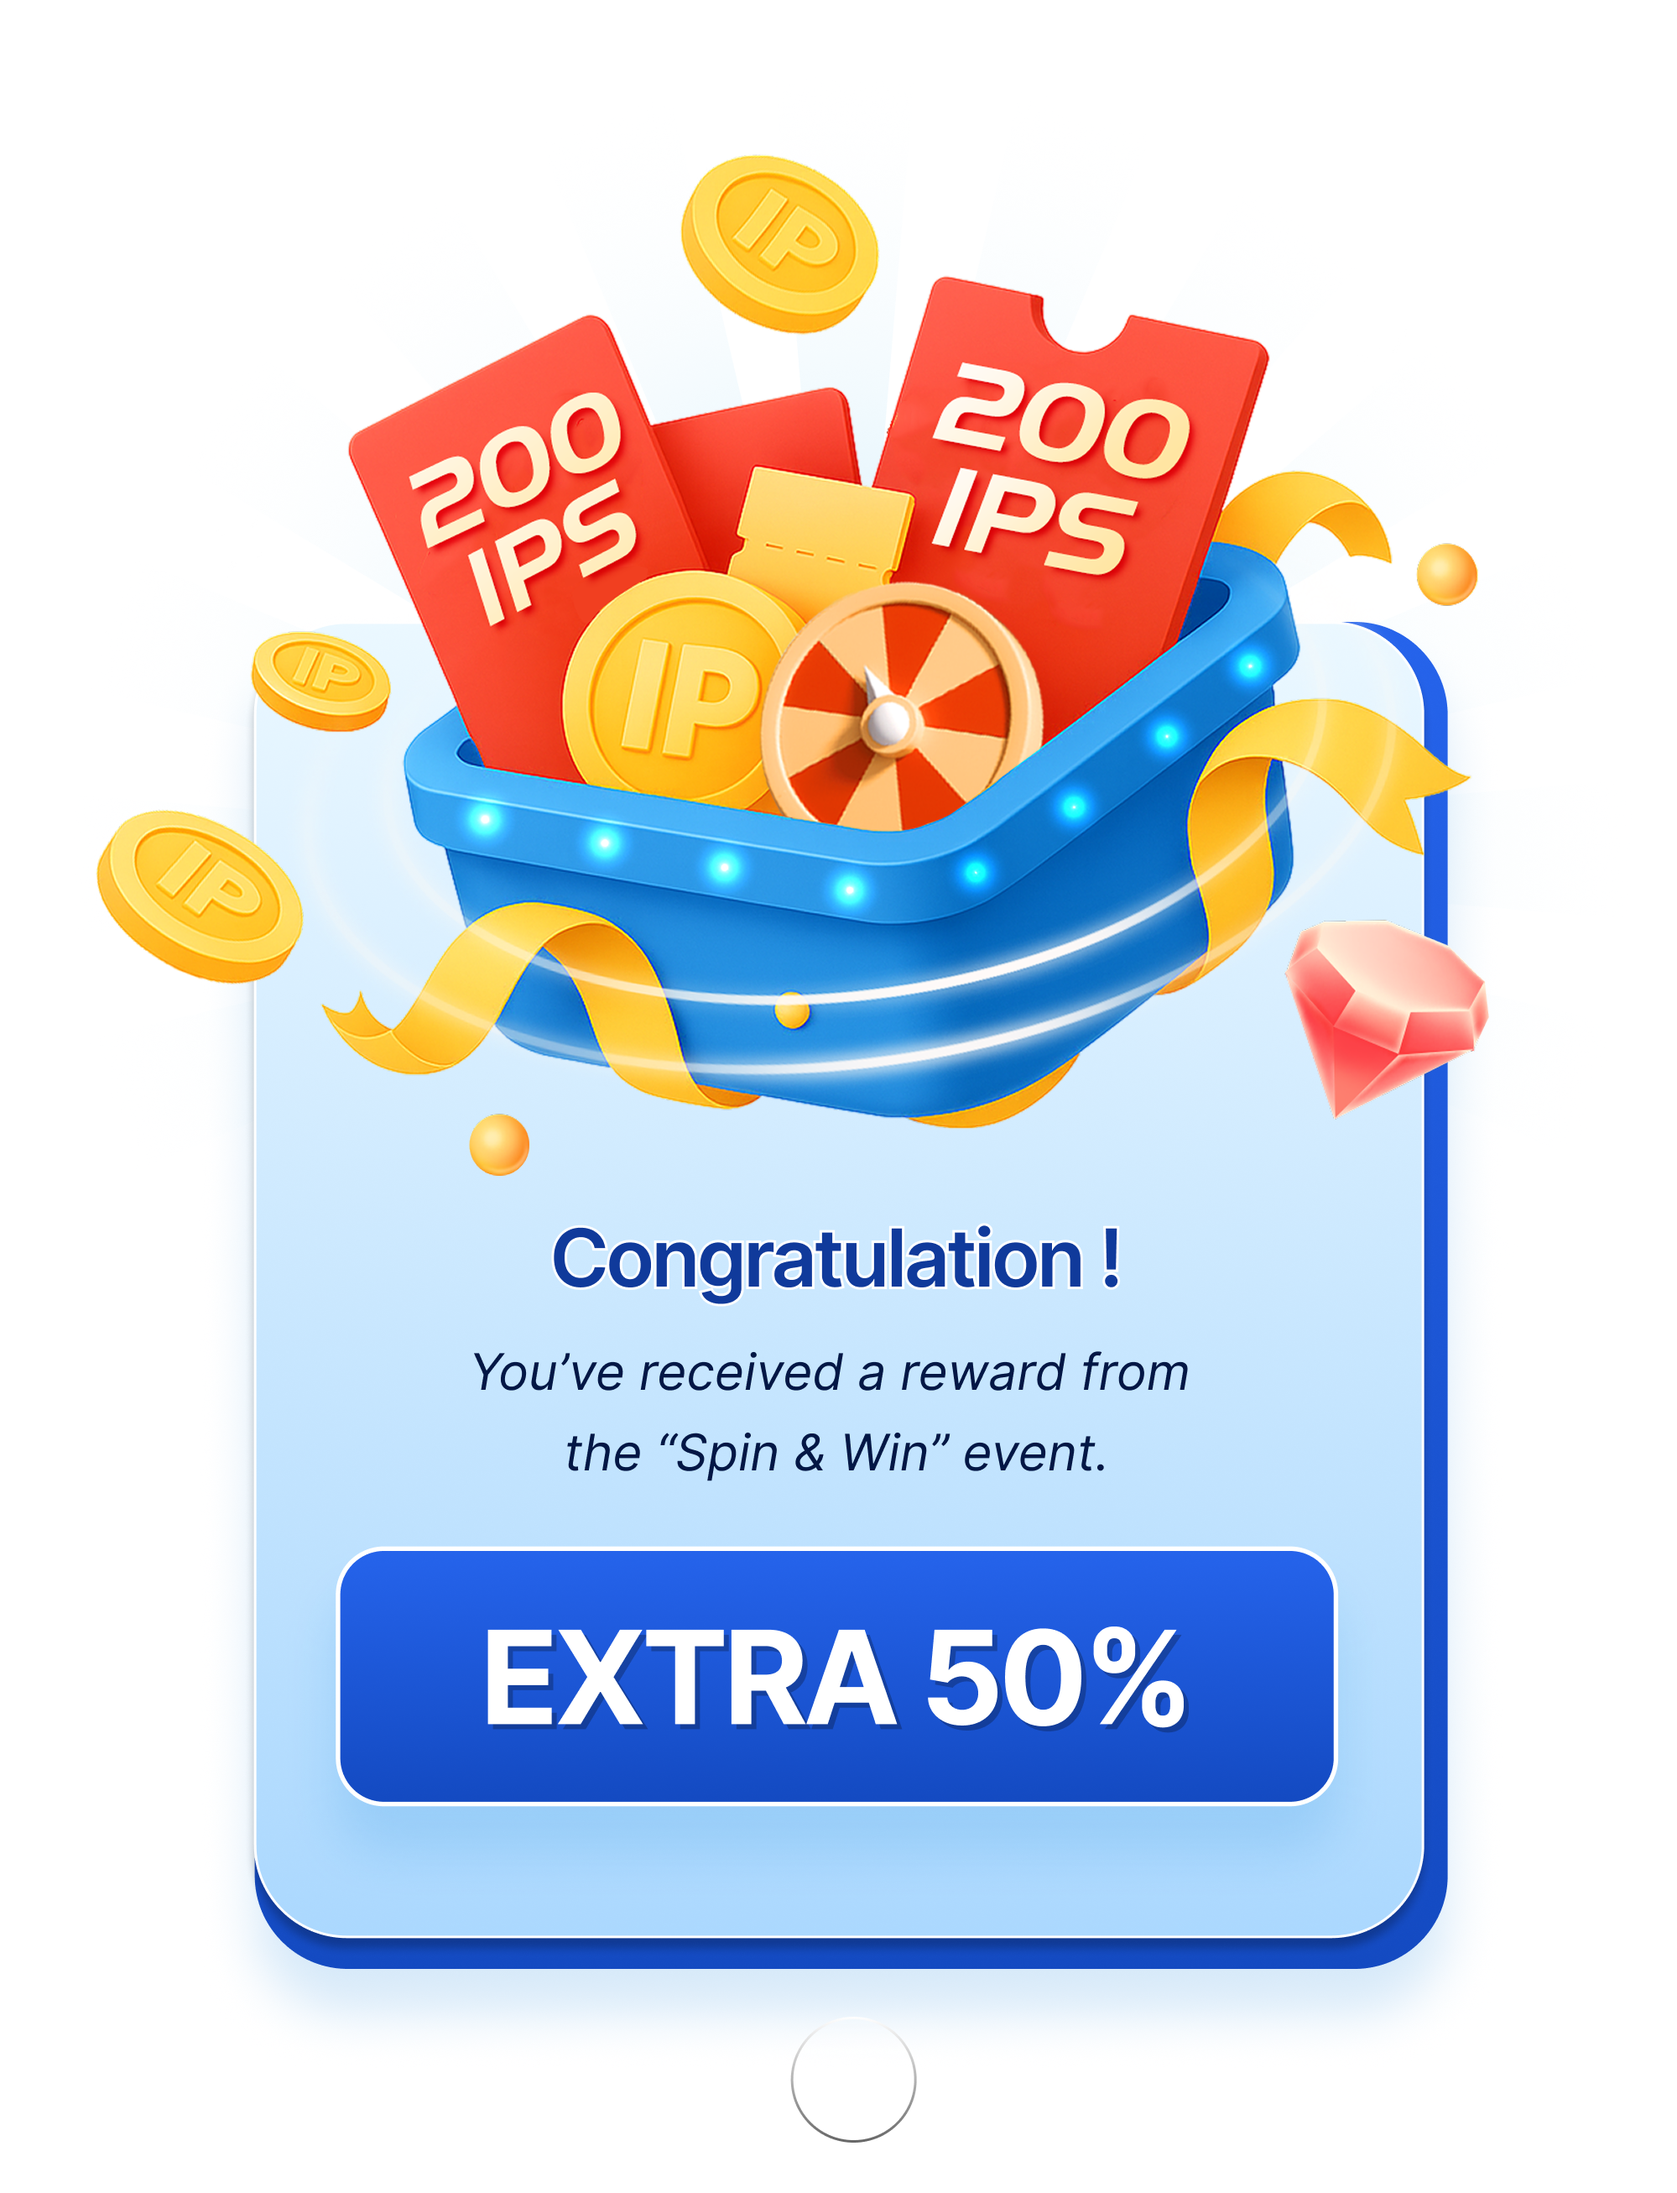
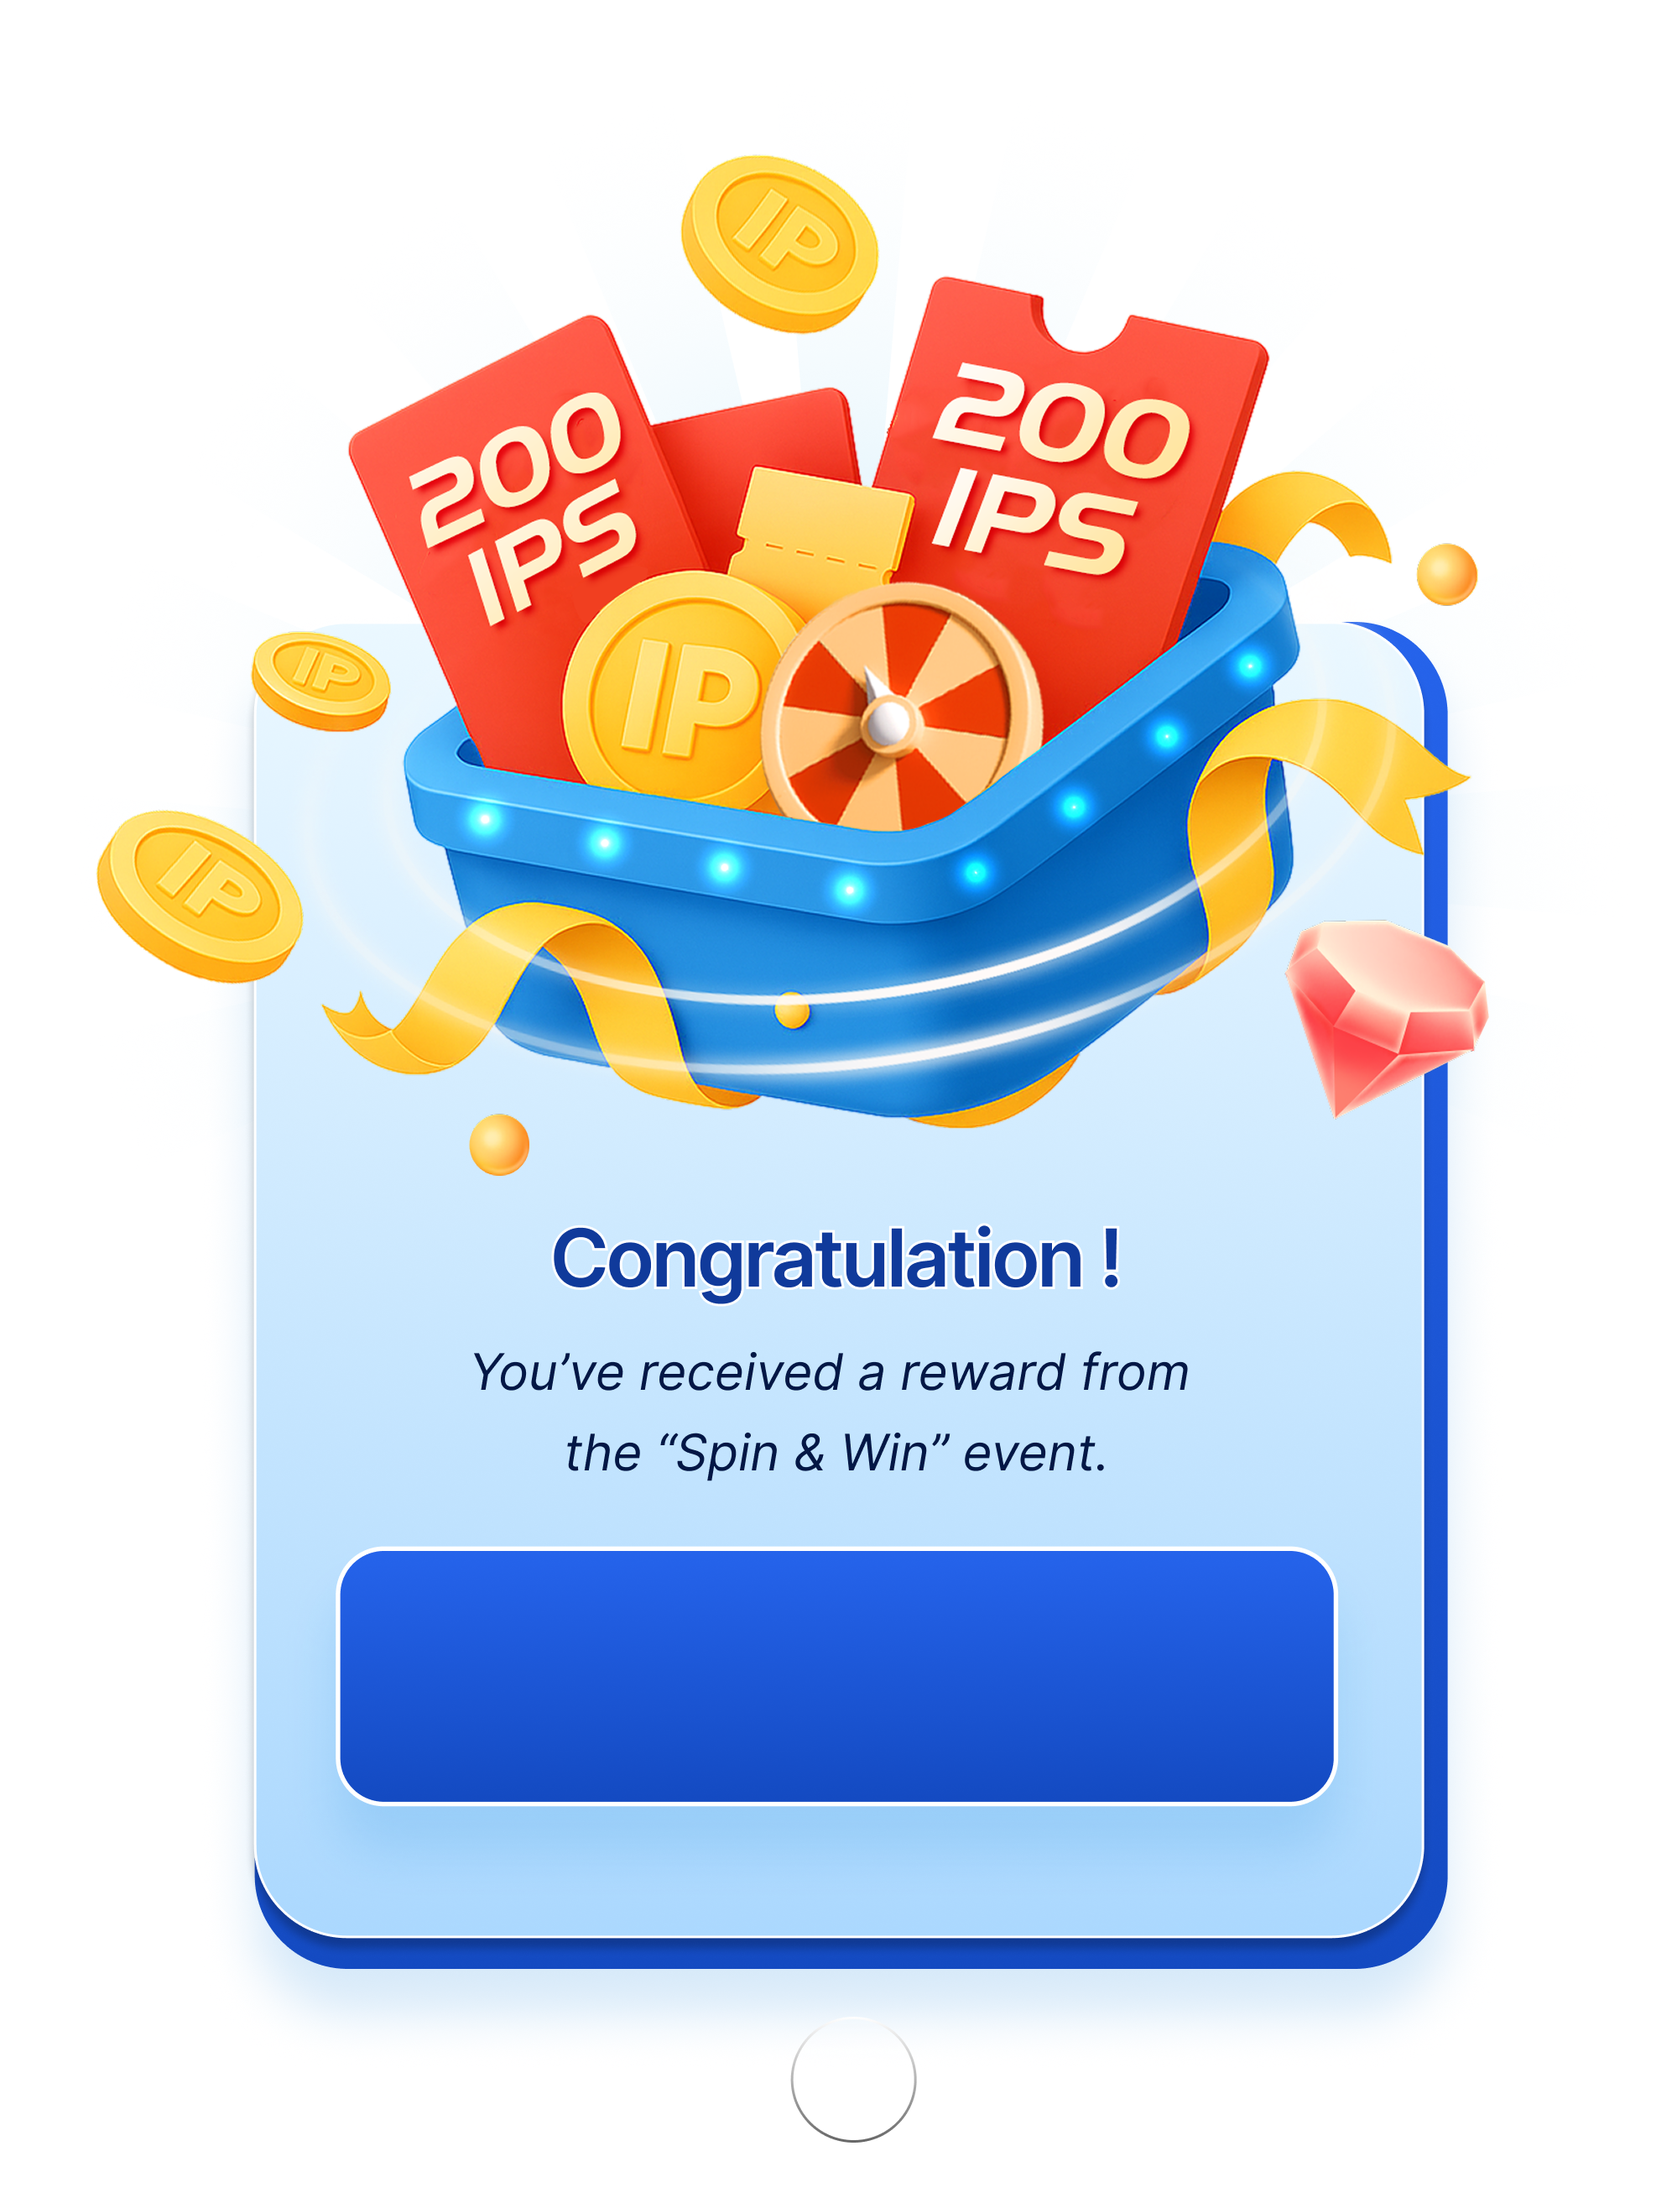
add gift

Changed region(s): [[0.2791, 0.744, 0.7134, 0.806]]

diff --git a/src/App.tsx b/src/App.tsx
@@ -188,10 +188,10 @@ function App() {
   const [showModal, setShowModal] = useState(false);
   const [animate, setAnimate] = useState("fade-in-up");
   const fortuneWheelRef = useRef<WheelOfFortuneRef>(null);
-  const [prizeWinnerKey, setPrizeWinnerKey] = useState<string>("");
+  const [prizeWinnerKey, setPrizeWinnerKey] = useState<WheelOfFortunePrize | null>(null);
   console.log("🚀 ~ prizeWinnerKey:", prizeWinnerKey);
   const handleSpinEnd = (prize: WheelOfFortunePrize) => {
-    setPrizeWinnerKey(prize.value);
+    setPrizeWinnerKey(prize);
     setShowModal(true);
     setAnimate("fade-in-up");
   };
@@ -200,15 +200,15 @@ function App() {
     setAnimate("fade-out-up");
     setTimeout(() => {
       setShowModal(false);
-      setPrizeWinnerKey("");
+      setPrizeWinnerKey(null);
     }, 400);
   };
   return (
     <>
       <div style={{
-          backgroundImage: "url('/background.png')", backgroundSize: "cover",
-          backgroundPosition: "center",
-        }} className="flex flex-col items-center justify-center w-full h-full min-h-screen gap-8 ">
+        backgroundImage: "url('/background.png')", backgroundSize: "cover",
+        backgroundPosition: "center",
+      }} className="flex flex-col items-center justify-center w-full h-full min-h-screen gap-8 ">
         {showModal && (
           <div
             onClick={handleCloseModal}
@@ -218,9 +218,11 @@ function App() {
               // onClick={(e) => e.stopPropagation()}
               className="flex flex-col justify-center items-center gap-3 "
             >
-              <img src="/gift.png" alt="Gift" className="max-w-md w-full" />
-              <div className="text-2xl font-bold text-green-400 flex items-center p-4 bg-white/20 rounded-lg">
-                {prizeWinnerKey}
+              <div className="w-[420px] relative">
+                <img src="/gift.png" alt="Gift" className="max-w-md w-full" />
+                <div className="absolute bottom-[100px] text-base font-bold text-white flex items-center p-4 left-1/2 -translate-x-1/2">
+                  {prizeWinnerKey?.value}
+                </div>
               </div>
             </div>
             <Confetti recycle={false} numberOfPieces={1500} />
@@ -249,7 +251,7 @@ function App() {
                 />
               }
               onSpinStart={() => {
-                setPrizeWinnerKey("");
+                setPrizeWinnerKey(null);
               }}
               onSpinEnd={(prize) => {
                 handleSpinEnd(prize);
@@ -259,7 +261,7 @@ function App() {
           </div>
         </div>
       </div>
-      <CustomCursor/>
+      <CustomCursor />
     </>
   );
 }
